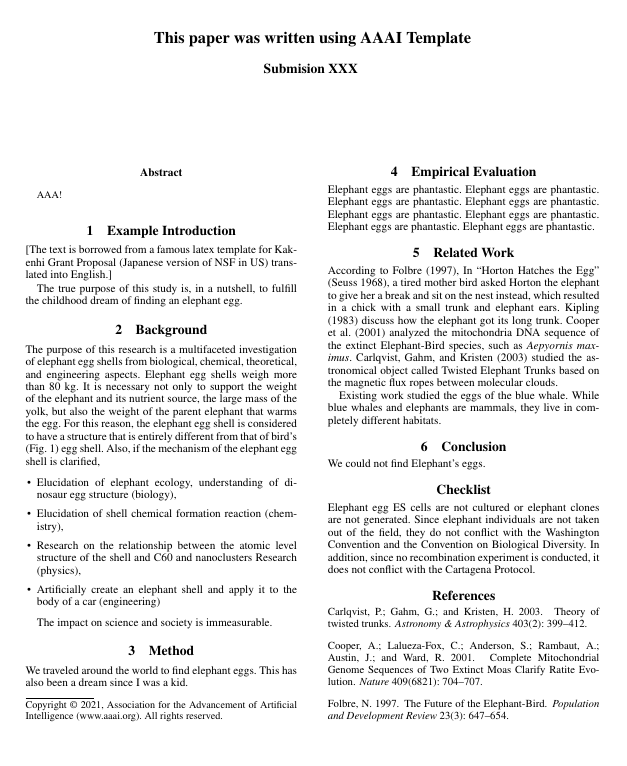
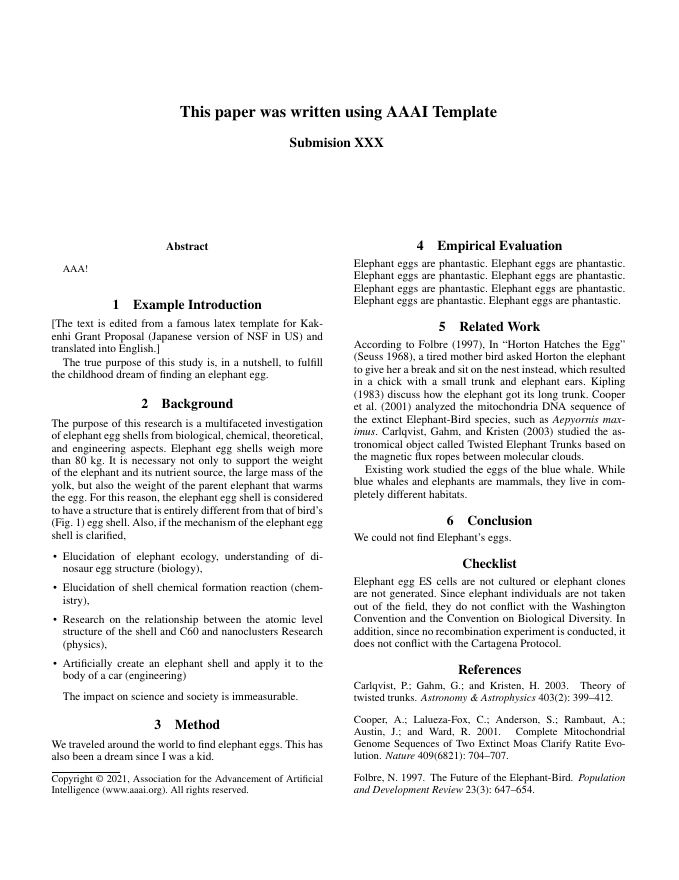
edit

diff --git a/body.tex b/body.tex
@@ -35,17 +35,10 @@ AAA!
 
 \section{Example Introduction}
 
-[The text is borrowed from a famous latex template for Kakenhi Grant
-Proposal (Japanese version of NSF in US) translated into English.]
+[The text is edited from a famous latex template for Kakenhi Grant
+Proposal (Japanese version of NSF in US) and translated into English.]
 
 The true purpose of this study is, in a nutshell, to fulfill the childhood dream of finding an elephant egg.
-
-% \begin{minted}{common-lisp}
-% (defun factorial (n)
-%   (if (zerop n)
-%       1
-%       (* n (factorial (1- n)))))
-% \end{minted}
 
 \section{Background}
 
